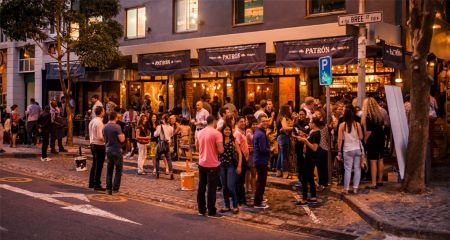
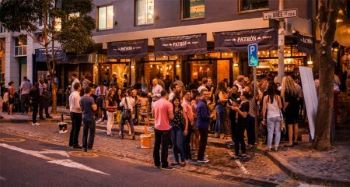
project

diff --git a/project/index.html b/project/index.html
@@ -38,20 +38,25 @@
     <section class="hero">
         <h2>Welcome to Cape Town</h2>
         <div class="hero-container">
-        <img src="images/south-african-flag.png" alt="South African Flag">
-        
-        <p class="hero-text">
-            Cape Town is a city that offers local culture with world class tourists attraction. From braais on the beach
-            to iconic sights like Table Mountain, Camps Bay beach and V&A Waterfront. local or visitor the city offers
-            must-see attractions.
-        </p>
-            </div>
             <p>From its iconic hidden places, find your next adventure here.</p>
+            <img src="images/south-african-flag.png" alt="South African Flag">
+
+            <p class="hero-text">
+                Cape Town is a city that offers local culture with world class tourists attraction. From braais on the
+                beach
+                to iconic sights like Table Mountain, Camps Bay beach and V&A Waterfront. local or visitor the city
+                offers
+                must-see attractions.
+            </p>
+        </div>
+
     </section>
 
     <main>
         <section>
             <h2>Choose your adventure</h2>
+
+
             <p>Your guide to discover the best of the Mother city</p>
             <div class="grid">
                 <div class="card">
@@ -91,6 +96,24 @@
                 </div>
 
             </div>
+        </section>
+        <section>
+            <h2>Rate My Website</h2>
+            <div class="star-rating" id="starRating">
+                <span class="star" data-value="1">⭐</span>
+                <span class="star" data-value="2">⭐</span>
+                <span class="star" data-value="3">⭐</span>
+                <span class="star" data-value="4">⭐</span>
+                <span class="star" data-value="5">⭐</span>
+            </div>
+            <p>Your Rating: <span id="starRatingValue">0</span> / 5</p>
+            <form id="reviewForm">
+                <label for="reviewMessage">Right Your Message</label><br>
+                <textarea id="reviewMessage" name="reviewMessage" rows="4" placeholder="Share your feedback"></textarea><br>
+                <button type="submit">Submit Review</button>
+            
+            </form>
+            <p id="reviewResponse"></p>
         </section>
     </main>
     <footer>

diff --git a/project/discover.html b/project/discover.html
@@ -81,6 +81,7 @@
         <section class="grid-section">
             <h2>Weekly Events</h2>
             <div class="grid">
+                
                 <div class="grid-card" data-category="Eat">
                     <h3>Oranjezicht Farm Market</h3>
                     <img src="images/oranjezich-farm-market.jpg" alt="Oranjezicht Farm Market" loading="lazy">
@@ -95,9 +96,10 @@
 
                 <div class="grid-card" data-category="Family">
                     <h3>Green Market Square</h3>
-                    <img src="images/green-market-square.webp" alt="Green Market Square" loading="lazy">
+                    <img src="images/green-market-square.jpg" alt="Green Market Square" loading="lazy">
                     <p>Handmade paintings and cultural arts available daily.</p>
                 </div>
+                
             </div>
         </section>
 
@@ -112,6 +114,24 @@
                 <input type="submit" value="Subscribe">
                 <p id="subscribeMessage"></p>
             </form>
+        </section>
+        <section>
+            <h2>Rate My Website</h2>
+            <div class="star-rating" id="starRating">
+                <span class="star" data-value="1">⭐</span>
+                <span class="star" data-value="2">⭐</span>
+                <span class="star" data-value="3">⭐</span>
+                <span class="star" data-value="4">⭐</span>
+                <span class="star" data-value="5">⭐</span>
+            </div>
+            <p>Your Rating: <span id="starRatingValue">0</span> / 5</p>
+            <form id="reviewForm">
+                <label for="reviewMessage">Right Your Message</label><br>
+                <textarea id="reviewMessage" name="reviewMessage" rows="4" placeholder="Share your feedback"></textarea><br>
+                <button type="submit">Submit Review</button>
+            
+            </form>
+            <p id="reviewResponse"></p>
         </section>
     </main>
 

diff --git a/project/scripts/capetown-hotspots.js b/project/scripts/capetown-hotspots.js
@@ -11,6 +11,44 @@ document.addEventListener("DOMContentLoaded", () => {
         hamburgerBtn.classList.toggle("active");
     });
 });
+const starRating = document.getElementById("starRating");
+const starRatingValue = document.getElementById("starRatingValue");
+let selectedRating = 0;
+starRating.addEventListener("click", (e) => {
+    if (e.target.classList.contains("star")) {
+        selectedRating = e.target.dataset.value;
+        starRatingValue.textContent = selectedRating;
+        highlightStars(selectedRating);
+    }
+});
+
+function highlightStars(value) {
+    document.querySelectorAll(".star-rating .star").forEach((star, index) => {
+        star.classList.toggle("active", index < value);
+    });
+}
+
+const reviewForm = document.getElementById("reviewForm");
+const reviewResponse = document.getElementById("reviewResponse");
+
+reviewForm.addEventListener("submit", (e) => {
+    e.preventDefault();
+    const reviewText = document.getElementById("reviewMessage").value;
+
+    if (selectedRating === 0) {
+        reviewResponse.textContent = "Please select a star rating before submitting.";
+        reviewResponse.style.color = "red";
+        return;
+    }
+
+    reviewResponse.textContent = `✅ Thank you! You rated ${selectedRating}/5 and wrote: "${reviewText}"`;
+    reviewResponse.style.color = "green";
+
+    reviewForm.reset();
+    document.querySelectorAll(".star-rating .star").forEach(s => s.classList.remove("active"));
+    selectedRating = 0;
+    starRatingValue.textContent = 0;
+});
 
 document.addEventListener("DOMContentLoaded", () => {
     const filterButtons = document.querySelectorAll("#filterButtons button");

diff --git a/project/food.html b/project/food.html
@@ -69,6 +69,24 @@
                 </div>
             </div>
         </section>
+        <section>
+            <h2>Rate My Website</h2>
+            <div class="star-rating" id="starRating">
+                <span class="star" data-value="1">⭐</span>
+                <span class="star" data-value="2">⭐</span>
+                <span class="star" data-value="3">⭐</span>
+                <span class="star" data-value="4">⭐</span>
+                <span class="star" data-value="5">⭐</span>
+            </div>
+            <p>Your Rating: <span id="starRatingValue">0</span> / 5</p>
+            <form id="reviewForm">
+                <label for="reviewMessage">Right Your Message</label><br>
+                <textarea id="reviewMessage" name="reviewMessage" rows="4" placeholder="Share your feedback"></textarea><br>
+                <button type="submit">Submit Review</button>
+
+            </form>
+            <p id="reviewResponse"></p>
+        </section>
     </main>
     <footer>
         <p>&copy <span id="currentyear"></span>🎵Thembinkosi Gumbo🎵 South Africa</p>

diff --git a/project/styles/capetown-hotspots.css b/project/styles/capetown-hotspots.css
@@ -175,3 +175,32 @@ footer {
     padding: 1rem;
     margin-top: 2rem;
 }
+.star-rating {
+    font-size: 2rem;
+    color: #ddd;
+    cursor: pointer;
+}
+.star-rating .star-active {
+    color: gold;
+}
+#reviewForm textarea {
+    width: 100%;
+    margin-top: 0.5rem;
+    padding: 0.5rem;
+    border-radius: 5px;
+    border: 1px solid #ccc;
+}
+
+#reviewForm button {
+    margin-top: 0.5rem;
+    padding: 0.5rem 1rem;
+    background: orange;
+    color: white;
+    border: none;
+    border-radius: 5px;
+    cursor: pointer;
+}
+
+#reviewForm button:hover {
+    background: #fb8500;
+}
